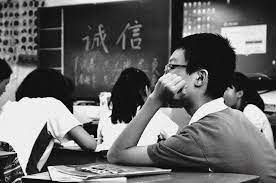
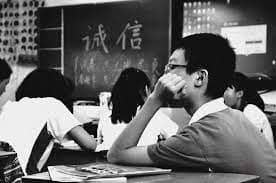
Comprimir las imagenes
Algunas imagenes eran demasiado pesadas y su carga en el servidor se hacian algo lentas

diff --git a/index.php b/index.php
@@ -22,7 +22,7 @@
 		<header><img src="imagenes/UC-Horizontal-White 1.png"></header>
 		<div class="contenido">
             <div class="contenedor_imagen">
-                <img class="bienvenida" src="imagenes/bienvenida.png" alt="">
+                <img class="bienvenida" src="imagenes/bienvenida.jpg" alt="">
             </div>
             <div class="contenedor_texto">
                 <h1>BIENVENIDO</h1>
